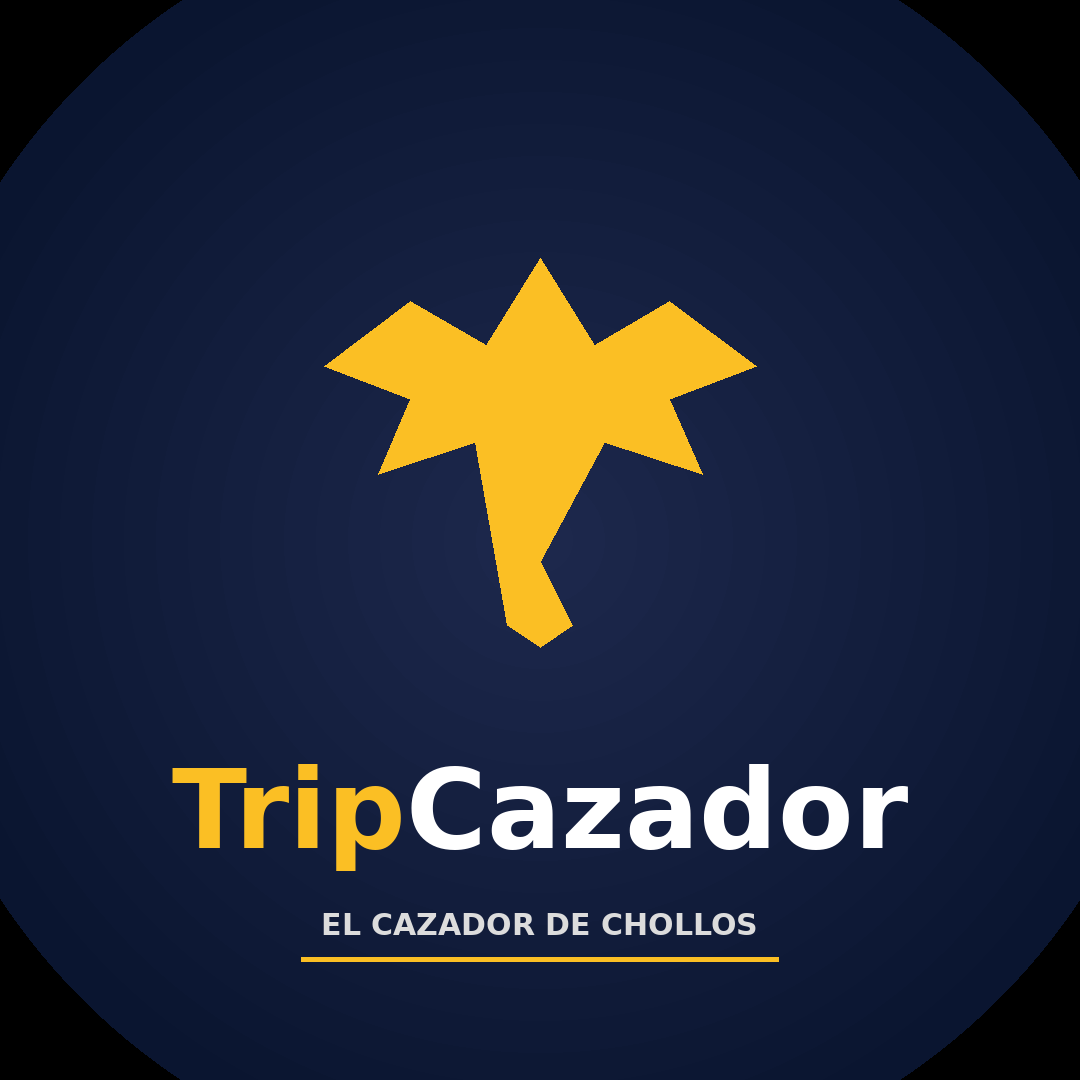
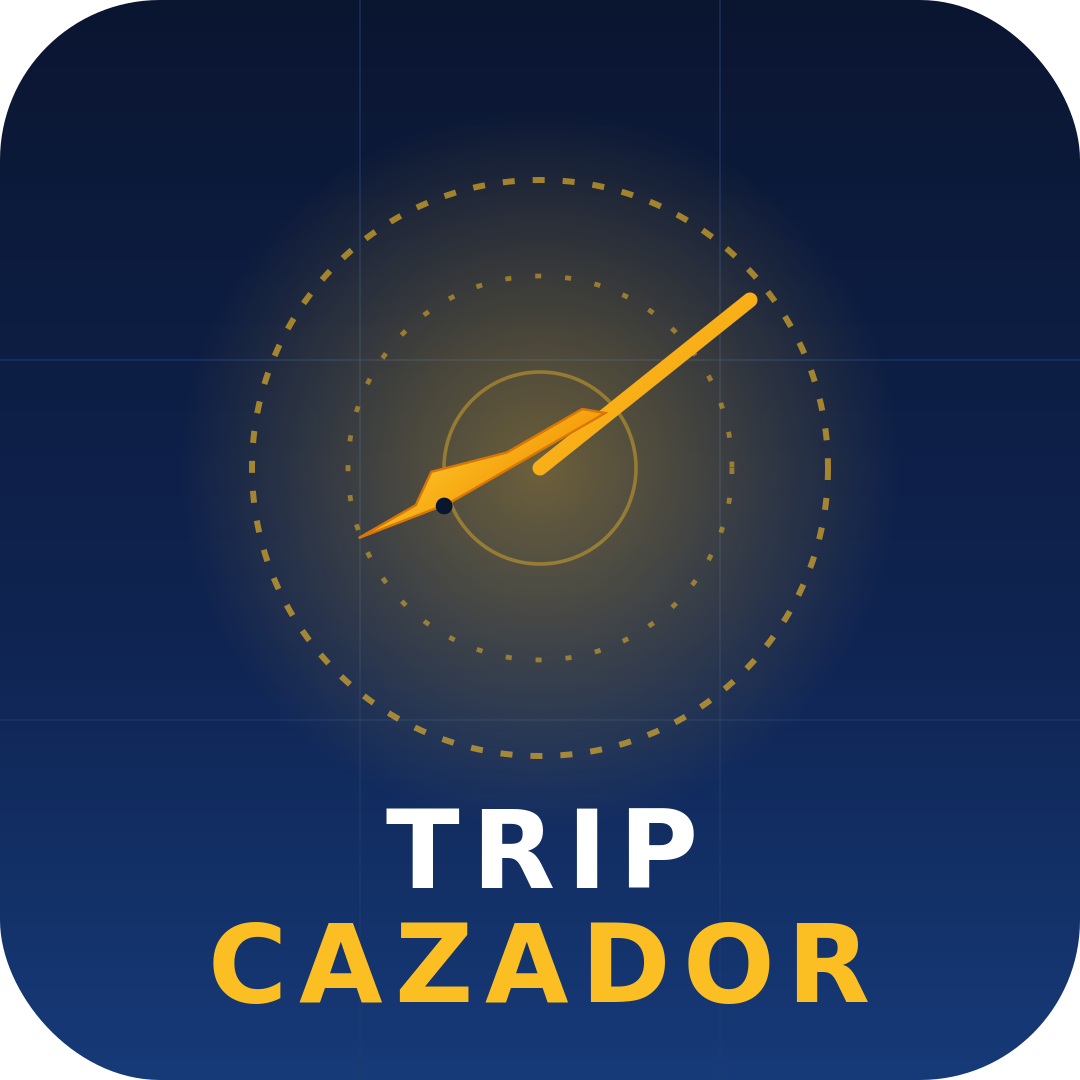
fix(social): IG profile pic = radar A1 oficial (no bird/arrow)
User feedback: el avatar generado no era el radar acordado el 1-may.
Reemplazado canva_profile_pic.py por wrapper cairosvg que renderiza
logo-a1-primary.svg directamente (radar + sweep + avion silueta).

- 1080×1080 + 320×320 PNG generados desde SVG canónico
- Garantía de paridad visual con web/X/YT/Telegram/OG
- README sigue válido (mismo flujo render_profile_pic.py)

diff --git a/scripts/social_carousel/render_profile_pic.py b/scripts/social_carousel/render_profile_pic.py
@@ -1,90 +1,39 @@
 #!/usr/bin/env python3
-"""SSS65 — TripCazador IG profile picture 1080×1080.
+"""TripCazador IG profile picture — RADAR oficial A1.
 
-Diseño: cuadrado navy con birdwing/cazador-arrow ámbar grande centrado,
-"Trip" + "Cazador" debajo en sans bold, tagline mini.
-Visible incluso en miniatura 110×110 (logo dominante en el cuadro).
+Usa el SVG primario logo-a1-primary.svg (decisión brand 2026-05-01):
+fondo navy gradient + 3 círculos radar ámbar punteados + sweep line +
+avión silueta ámbar + wordmark TRIP/CAZADOR.
+
+Genera 1080×1080 (HD IG) + 320×320 (IG min) PNG.
 """
 from pathlib import Path
-from PIL import Image, ImageDraw, ImageFont
+import cairosvg
 
+SVG = Path(
+    "/sessions/laughing-modest-bohr/mnt/Viajes/tripcazador-web/public/"
+    "logo-a1-primary.svg"
+)
 OUT = Path("/sessions/laughing-modest-bohr/mnt/Viajes/canva_propuesta_barcelona")
-NAVY = (10, 21, 48)
-AMBER = (251, 191, 36)
-WHITE = (255, 255, 255)
-
-F_SANS_BOLD = "/usr/share/fonts/truetype/dejavu/DejaVuSans-Bold.ttf"
-F_SANS = "/usr/share/fonts/truetype/dejavu/DejaVuSans.ttf"
-
-W = H = 1080
 
 
-def draw_bird(draw, cx, cy, size=440, color=AMBER):
-    """Geometric bird/arrow icon — same as DealCard SVG.
-    Centered at (cx, cy), bounding box ~size×size."""
-    s = size / 100.0
-    # Original SVG path translated to absolute coords with offset
-    pts_local = [
-        (10, 42), (26, 30), (40, 38), (50, 22), (60, 38), (74, 30),
-        (90, 42), (74, 48), (80, 62), (62, 56), (50, 78), (56, 90),
-        (50, 94), (44, 90), (38, 56), (20, 62), (26, 48),
-    ]
-    pts = [(cx + (x - 50) * s, cy + (y - 58) * s) for x, y in pts_local]
-    draw.polygon(pts, fill=color)
+def main() -> None:
+    OUT.mkdir(parents=True, exist_ok=True)
+    svg_bytes = SVG.read_bytes()
 
-
-def main():
-    img = Image.new("RGB", (W, H), NAVY)
-    draw = ImageDraw.Draw(img)
-
-    # Subtle radial gradient — navy más claro hacia el centro
-    overlay = Image.new("RGBA", (W, H), (0, 0, 0, 0))
-    odraw = ImageDraw.Draw(overlay)
-    cx, cy = W // 2, H // 2
-    max_r = (W // 2) * 1.2
-    for r in range(int(max_r), 0, -8):
-        # progressively lighter towards center
-        t = r / max_r
-        # navy gets slightly lighter near center
-        delta = int(20 * (1 - t))
-        col = (NAVY[0] + delta, NAVY[1] + delta, NAVY[2] + delta + delta // 2, 255)
-        odraw.ellipse((cx - r, cy - r, cx + r, cy + r), fill=col)
-    img = overlay.convert("RGB")
-    draw = ImageDraw.Draw(img)
-
-    # Big amber bird centered, slightly above middle
-    draw_bird(draw, W // 2, int(H * 0.42), size=540)
-
-    # "TripCazador" wordmark below
-    fnt_brand = ImageFont.truetype(F_SANS_BOLD, 110)
-    text_a = "Trip"
-    text_b = "Cazador"
-    aw = draw.textbbox((0, 0), text_a, font=fnt_brand)[2]
-    bw = draw.textbbox((0, 0), text_b, font=fnt_brand)[2]
-    total_w = aw + bw
-    text_x = (W - total_w) // 2
-    text_y = int(H * 0.69)
-    draw.text((text_x, text_y), text_a, font=fnt_brand, fill=AMBER)
-    draw.text((text_x + aw, text_y), text_b, font=fnt_brand, fill=WHITE)
-
-    # Tagline below
-    fnt_tagline = ImageFont.truetype(F_SANS_BOLD, 30)
-    tagline = "EL CAZADOR DE CHOLLOS"
-    tw = draw.textbbox((0, 0), tagline, font=fnt_tagline)[2]
-    draw.text(((W - tw) // 2, int(H * 0.84)), tagline, font=fnt_tagline,
-              fill=(220, 220, 220))
-    # Letter-spacing visual: amber underline
-    underline_w = tw + 40
-    underline_x = (W - underline_w) // 2
-    draw.rectangle(
-        [(underline_x, int(H * 0.84) + 50), (underline_x + underline_w, int(H * 0.84) + 54)],
-        fill=AMBER,
+    cairosvg.svg2png(
+        bytestring=svg_bytes,
+        write_to=str(OUT / "ig_profile_pic.png"),
+        output_width=1080,
+        output_height=1080,
     )
-
-    # Save both 1080 (HD) and 320 (IG min)
-    img.save(OUT / "ig_profile_pic.png", "PNG", quality=95)
-    img.resize((320, 320), Image.LANCZOS).save(OUT / "ig_profile_pic_320.png", "PNG", quality=95)
-    print("✓ Profile pic 1080 + 320 saved")
+    cairosvg.svg2png(
+        bytestring=svg_bytes,
+        write_to=str(OUT / "ig_profile_pic_320.png"),
+        output_width=320,
+        output_height=320,
+    )
+    print("✓ Profile pic radar A1 — 1080 + 320 saved")
 
 
 if __name__ == "__main__":
